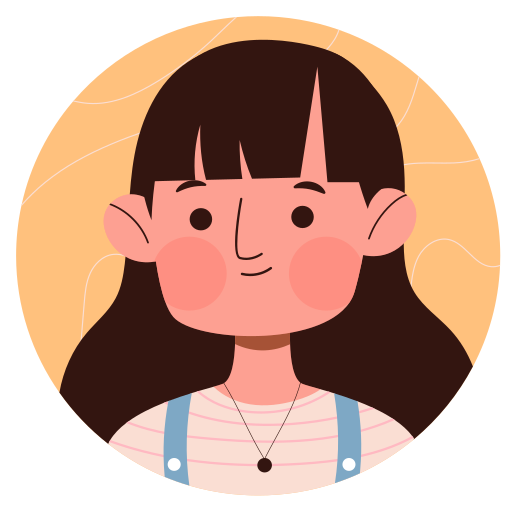
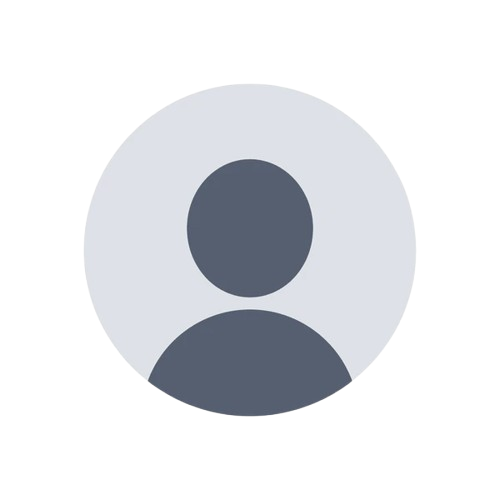
Fix bugs

diff --git a/lib/dashboard/widgets/plant_grid.dart b/lib/dashboard/widgets/plant_grid.dart
@@ -14,47 +14,86 @@ class PlantGrid extends StatefulWidget {
 class _PlantGridState extends State<PlantGrid> {
   final PlantService plantService = PlantService();
 
+  List<Plant> plants = [];
+  bool loading = true;
+  String? errorMessage;
+
+  @override
+  void initState() {
+    super.initState();
+    _loadPlants();
+  }
+
+  Future<void> _loadPlants() async {
+    final (ok, msg, data) = await plantService.getAllUserPlants();
+
+    if (!ok) {
+      setState(() {
+        errorMessage = msg ?? "Error loading plants";
+        loading = false;
+      });
+      return;
+    }
+
+    setState(() {
+      plants = data!
+          .map((x) => Plant.fromJson(x as Map<String, dynamic>))
+          .toList();
+      loading = false;
+    });
+  }
+
+  List<Plant> _applyFilter() {
+    List<Plant> filtered = [...plants];
+
+    // ✅ ORDER BY SIZE (logico, non alfabetico)
+    if (widget.filter == 'SIZE') {
+      const sizeOrder = {
+        "small": 0,
+        "medium": 1,
+        "large": 2,
+        "giant": 3,
+      };
+
+      filtered.sort((a, b) {
+        return sizeOrder[a.size]!.compareTo(sizeOrder[b.size]!);
+      });
+    }
+
+    // ORDER BY DIFFICULTY
+    else if (widget.filter == 'DIFFICULTY') {
+      filtered.sort((a, b) {
+        return int.parse(a.difficulty).compareTo(int.parse(b.difficulty));
+      });
+    }
+
+    return filtered;
+  }
+
   @override
   Widget build(BuildContext context) {
-    return FutureBuilder(
-      future: plantService.getAllUserPlants(),
-      builder: (context, snapshot) {
-        if (!snapshot.hasData) {
-          return const Center(child: CircularProgressIndicator());
-        }
+    if (loading) {
+      return const Center(child: CircularProgressIndicator());
+    }
 
-        final (ok, msg, data) = snapshot.data!;
+    if (errorMessage != null) {
+      return Center(child: Text(errorMessage!));
+    }
 
-        if (!ok) {
-          return Center(child: Text(msg ?? "Error"));
-        }
+    final filtered = _applyFilter();
 
-        // Convert JSON to List<Plant>
-        List<Plant> plants = data!
-            .map((x) => Plant.fromJson(x as Map<String, dynamic>))
-            .toList();
-
-        // 🔥 FILTERING
-        if (widget.filter == 'SIZE') {
-          plants.sort((a, b) => a.size.compareTo(b.size));
-        } else if (widget.filter == 'DIFFICULTY') {
-          plants.sort((a, b) => a.difficulty.compareTo(b.difficulty));
-        }
-
-        return GridView.builder(
-          shrinkWrap: true,
-          physics: const NeverScrollableScrollPhysics(),
-          itemCount: plants.length,
-          gridDelegate: const SliverGridDelegateWithFixedCrossAxisCount(
-            crossAxisCount: 2,
-            crossAxisSpacing: 18,
-            mainAxisSpacing: 18,
-            childAspectRatio: 0.6,
-          ),
-          itemBuilder: (context, index) {
-            return PlantCard(plant: plants[index]);
-          },
-        );
+    return GridView.builder(
+      shrinkWrap: true,
+      physics: const NeverScrollableScrollPhysics(),
+      itemCount: filtered.length,
+      gridDelegate: const SliverGridDelegateWithFixedCrossAxisCount(
+        crossAxisCount: 2,
+        crossAxisSpacing: 18,
+        mainAxisSpacing: 18,
+        childAspectRatio: 0.6,
+      ),
+      itemBuilder: (context, index) {
+        return PlantCard(plant: filtered[index]);
       },
     );
   }

diff --git a/lib/dashboard/pages/add_friends.dart b/lib/dashboard/pages/add_friends.dart
@@ -1,0 +1,89 @@
+import 'package:flutter/material.dart';
+
+import '../../utility/app_colors.dart';
+
+class AddFriendsPage extends StatelessWidget {
+  const AddFriendsPage({super.key});
+
+  @override
+  Widget build(BuildContext context) {
+    return Scaffold(
+      backgroundColor: AppColors.black,
+      body: Container(
+        padding: const EdgeInsets.symmetric(horizontal: 20, vertical: 30),
+        child: Column(
+          children: [
+            const SizedBox(height: 30,),
+            Row(
+              children: [
+                IconButton(
+                  icon: const Icon(
+                    Icons.arrow_back_ios,
+                    color: AppColors.white,
+                    size: 28,
+                  ),
+                  onPressed: () => Navigator.pop(context),
+                ),
+                const SizedBox(width: 30),
+                const Text(
+                  "Your id: d2b805fd",
+                  style: TextStyle(
+                    color: AppColors.white,
+                    fontSize: 20,
+                  ),
+                  textAlign: TextAlign.left,
+                ),
+              ],
+            ),
+            const SizedBox(height: 30,),
+            Center(
+              child: Container(
+                width: 300,
+                height: 50,
+                decoration: BoxDecoration(
+                  color: AppColors.white,
+                  borderRadius: BorderRadius.circular(25),
+                  boxShadow: [
+                    BoxShadow(
+                      color: Colors.black.withOpacity(0.05),
+                      blurRadius: 6,
+                      offset: const Offset(0, 3),
+                    ),
+                  ],
+                ),
+                child: const Row(
+                  children: [
+                    SizedBox(width: 12),
+                    Icon(Icons.search,color: AppColors.dark_gray,),
+
+                    Expanded(child: TextField(
+                      cursorWidth: 0,
+                      showCursor: false,
+                      style: TextStyle(
+                        fontFamily: 'Poppins',
+                        fontSize: 16,
+                      ),
+                      decoration: InputDecoration(
+                        hintText: 'Add a new friend...',
+                        hintStyle: TextStyle(
+                          color: AppColors.dark_gray,
+                          fontFamily: 'Poppins',
+                          fontSize: 14,
+                        ),
+                        border: InputBorder.none,
+                        contentPadding:
+                        EdgeInsets.symmetric(vertical: 14, horizontal: 10),
+                      ),
+                    ),),
+                  ],
+                ),
+              ),
+            ),
+
+
+          ],
+        ),
+      ),
+    );
+  }
+}

diff --git a/lib/dashboard/pages/models/plant.dart b/lib/dashboard/pages/models/plant.dart
@@ -2,10 +2,10 @@ class Plant {
   final String id;
   final String name;
   final String commonName;
-  final String? imageUrl;     // eventuale URL da backend (image_url / url)
+  final String? imageUrl;
   final String size;
   final String difficulty;
-  final String? imageBase64;  // immagine compressa in base64 (WebP)
+  final String? imageBase64;
 
   Plant({
     required this.id,
@@ -17,31 +17,9 @@ class Plant {
     this.imageBase64,
   });
 
-  /// [json] è l'oggetto intero di /user_plant/all
-  /// struttura tipo:
-  /// {
-  ///   "location_note": ...,
-  ///   "nickname": ...,
-  ///   "plant": {
-  ///     "id": ...,
-  ///     "scientific_name": ...,
-  ///     "common_name": ...,
-  ///     "difficulty": ...,
-  ///     "size": ...,
-  ///     "photos": [
-  ///       {
-  ///         "image_url": "...",
-  ///         "url": "...",
-  ///         "image": "base64..."
-  ///       }
-  ///     ]
-  ///   }
-  /// }
   factory Plant.fromJson(Map<String, dynamic> json) {
-    // Estraggo la pianta annidata; se non c'è, uso direttamente json
     final plant = (json['plant'] as Map<String, dynamic>?) ?? json;
 
-    // Foto (può essere null o lista vuota)
     final photos = plant['photos'];
 
     String? imageUrl;
@@ -50,13 +28,11 @@ class Plant {
     if (photos is List && photos.isNotEmpty) {
       final first = photos.first;
       if (first is Map<String, dynamic>) {
-        // URL tradizionale (se esiste ancora)
         final rawUrl = first['image_url'] ?? first['url'];
         if (rawUrl != null) {
           imageUrl = rawUrl.toString();
         }
 
-        // Base64 dell'immagine compressa
         final rawImage = first['image'];
         if (rawImage is String && rawImage.isNotEmpty) {
           imageBase64 = rawImage;
@@ -65,16 +41,20 @@ class Plant {
     }
 
     return Plant(
-      // Uso l'id della pianta annidata, oppure eventuale plant_id come fallback
       id: (plant['id'] ?? json['plant_id'] ?? '').toString(),
-      // Se scientific_name manca, faccio fallback su common_name
+
       name: plant['scientific_name']?.toString() ??
           plant['common_name']?.toString() ??
           '',
-      commonName: plant['common_name']!.toString(),
+
+      commonName: plant['common_name']?.toString() ?? '',
+
       imageUrl: imageUrl,
-      size: plant['size']?.toString() ?? '',
+
+      size: (json['size'] ?? plant['size'] ?? '').toString(),
+
       difficulty: plant['difficulty']?.toString() ?? '',
+
       imageBase64: imageBase64,
     );
   }

diff --git a/lib/dashboard/pages/profile.dart b/lib/dashboard/pages/profile.dart
@@ -1,5 +1,6 @@
 import 'dart:io' show Platform;
 
+import 'package:Ecogrow/dashboard/pages/add_friends.dart';
 import 'package:Ecogrow/dashboard/pages/generate_pdf.dart';
 import 'package:Ecogrow/dashboard/pages/personal_info.dart';
 import 'package:Ecogrow/dashboard/pages/service/user_service.dart';
@@ -534,7 +535,7 @@ class ProfilePage extends StatelessWidget {
                       {
                         "icon": Icons.group,
                         "text": "Friends",
-                        "onTap": () => debugPrint("Tap: Friends"),
+                        "onTap": () => Navigator.push(context, MaterialPageRoute(builder: (context) => const AddFriendsPage())),
                       },
                     ],
                   ),

diff --git a/lib/dashboard/pages/garden.dart b/lib/dashboard/pages/garden.dart
@@ -95,7 +95,10 @@ class _GardenPageState extends State<GardenPage> {
 
               Expanded(
                 child: SingleChildScrollView(
-                  child: PlantGrid(filter: selectedFilter),
+                  child: PlantGrid(
+                    key: ValueKey(selectedFilter),   // 👈 QUESTA È LA SOLUZIONE
+                    filter: selectedFilter,
+                  ),
                 ),
               ),
               const SizedBox(height: 80),
